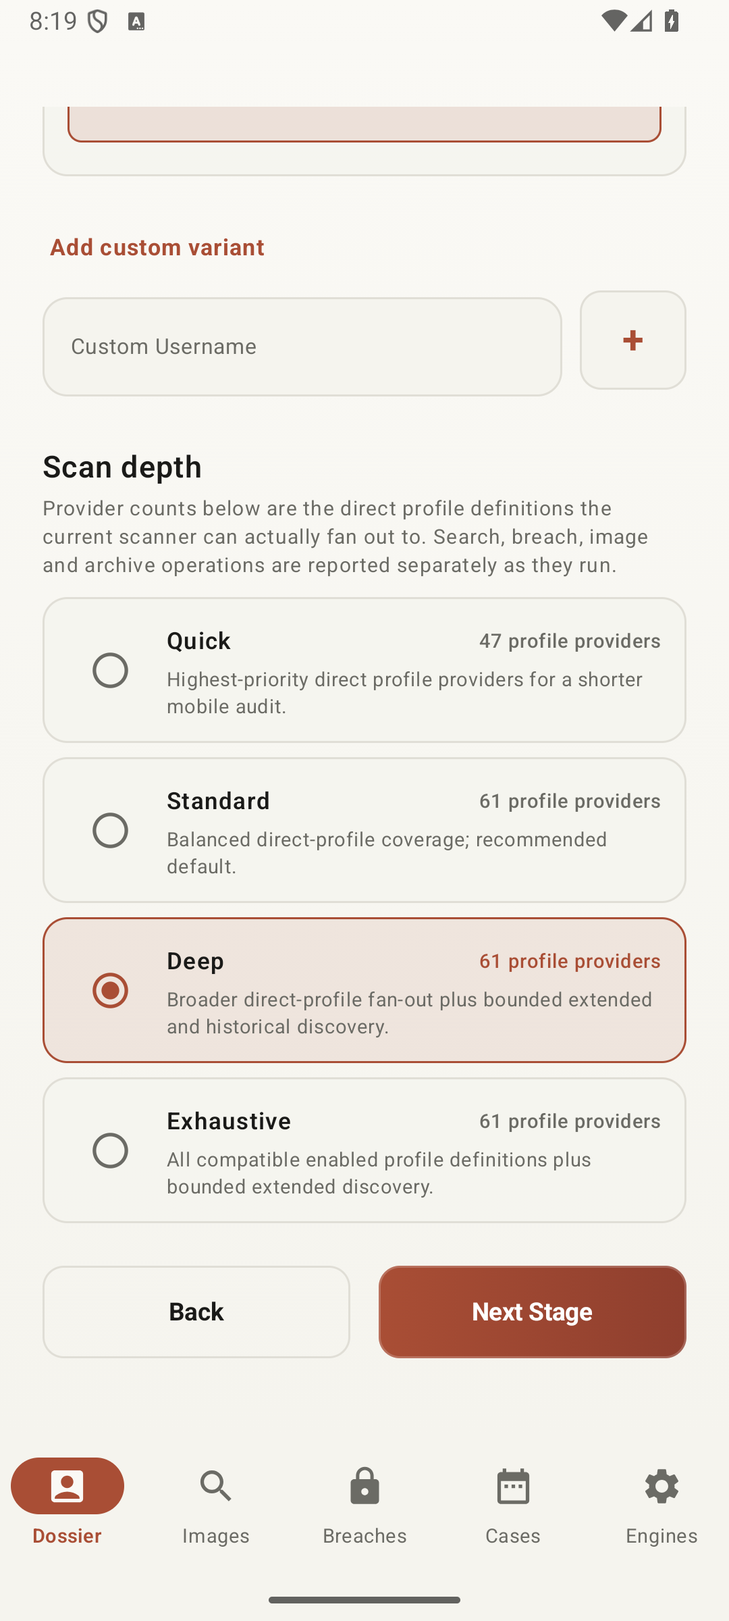
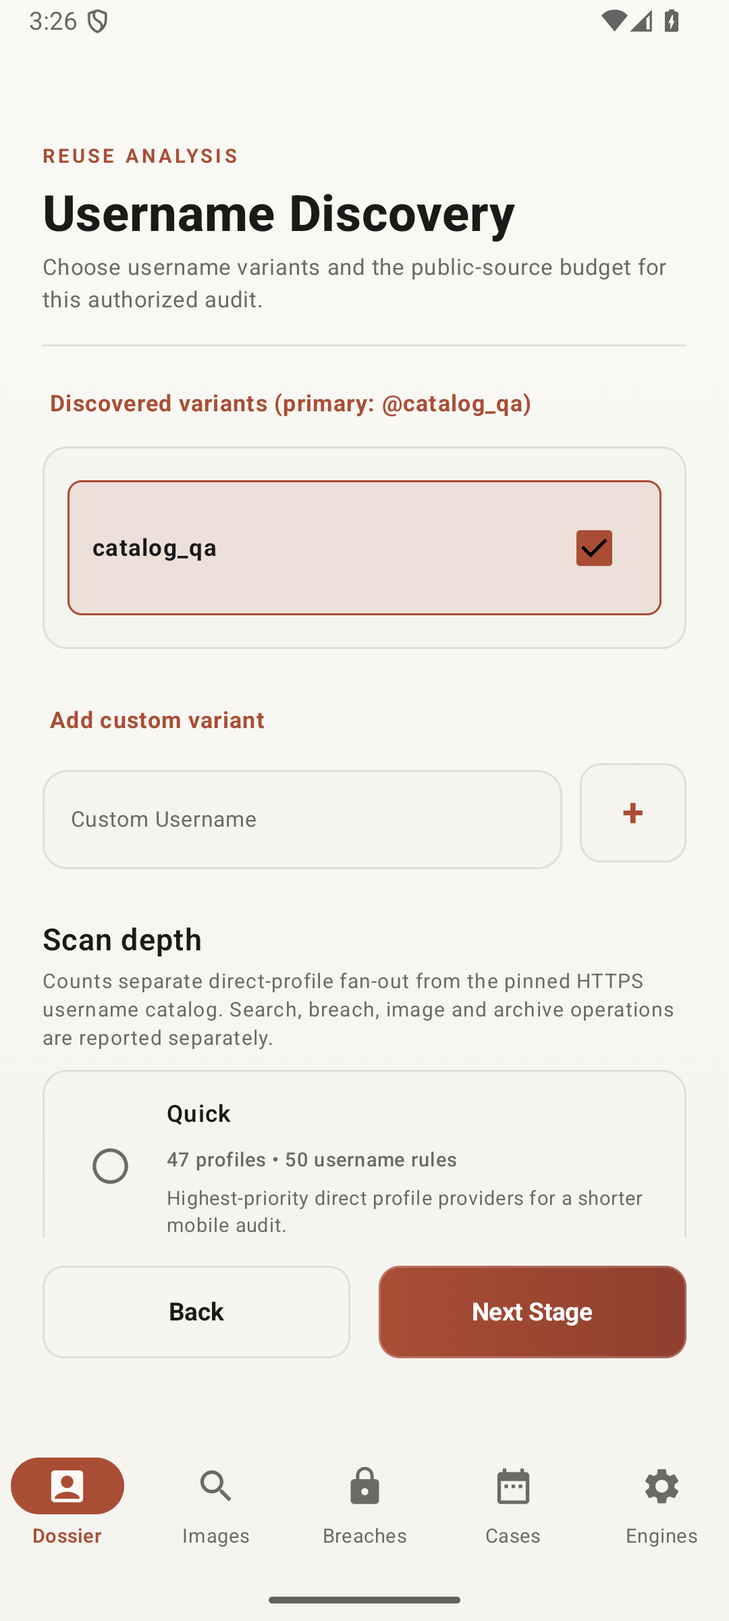
docs: record pinned username catalog evidence

diff --git a/TRUTH.md b/TRUTH.md
@@ -4,28 +4,29 @@ This is the sole live implementation/readiness record for Dossier. `AGENTS.md` d
 
 ## Current snapshot
 
-- **Strict product readiness score:** **64/100**
+- **Strict product readiness score:** **65/100**
 - **Milestone state:** M0 complete; M1–M6 and M8–M12 materially advanced but still partial; M7 and M13 remain partial
 - **Current implementation branch:** `feat/product-contract-discovery-v2`
-- **Last validated implementation commit:** `22a3ff7a1162683fd7b0ccd212eda99ac5eb1a08`
+- **Last validated implementation commit:** `107fd3119e1efcc3ed698e2c93925ee4c183c704`
 - **Last validation date:** **2026-08-24**
-- **Current-session validation on that commit:** provider-registry audit, debug and uiTest JVM tests, debug and uiTest APK assembly, lint, API 36 Compose/UI tests, Android Keystore resume tests, exact-UUID WorkManager lifecycle/crash-boundary tests, provider-runtime lifecycle tests and affected-state visual QA at normal and 1.3x font scale
+- **Current-session validation on that commit:** provider-registry and pinned-catalog integrity audits, debug and uiTest JVM suites (462 tests / 88 suites each), debug and uiTest APK assembly, zero-error lint, 21/21 API 36 Compose/UI tests, Android Keystore resume tests, exact-UUID WorkManager lifecycle/crash-boundary tests, provider-runtime lifecycle tests and affected-state visual QA at 1.0x, 1.3x, 1.5x and 2.0x font scale
 - **Documentation-only commits after the validated implementation:** may update this file/PR prose without changing the validated code claim
 - **Last validated device class:** Medium_Phone profile, Android API 36, x86_64 emulator
 - **Real-device production validation:** not yet recorded
 - **Declarative provider definitions:** **78 authored**
+- **Pinned WhatsMyName catalog:** **716 source records; 644 executable HTTPS username rules after parser/policy filtering; 72 non-executable under current policy**
 - **Registry-wide live provider validation:** not established
 - **Production readiness:** not established
 
 Compilation, unit tests and emulator tests are necessary gates, but they do not substitute for live-provider validation, calibrated identity/face benchmarks, physical-device measurements, accessibility validation or release hardening.
 
-The readiness score is **64/100** after the declarative provider-execution tranche. Direct-profile candidates now execute through provider definitions with bounded request policy, typed truthful outcomes, provider identity in evidence and real lifecycle counters. Discovery gains one point because this closes a production execution gap; scale, registry-wide live validation, remaining custom-resolver migration, persisted frontier/health, calibration and physical-device gates remain open.
+The readiness score is **65/100** after the pinned username-catalog tranche. Direct-profile candidates continue to execute through 78 authored definitions, while a separately pinned 716-record WhatsMyName catalog contributes 644 executable HTTPS username rules with bounded scheduling, typed truthful outcomes, provider identity in evidence and real lifecycle counters. Discovery gains one point for useful production breadth and policy enforcement; the catalog is not counted as 644 additional `ProviderCatalogV2` definitions or live-validated providers. Registry-wide live validation, remaining custom-resolver migration, persisted frontier/health, calibration and physical-device gates remain open.
 
 ## Strict 100-point rubric
 
 | Area | Score | Truth |
 |---|---:|---|
-| Discovery breadth and reliability | **10/15** | Discovery Fabric v2 is integrated into runtime planning and direct-profile execution with 78 declarative definitions, categories, validation, bounded reads, timeout/retry/cooldown/request-spacing policy, typed truthful outcomes, provider health updates, scan modes and maintenance-audit CI. A broad OSINT capability catalog and bounded report-interoperability layer cover additional tool families, but most external frameworks are import/manual integrations rather than native live providers. The project remains far below the 1,000+ reviewed/live-validated target and lacks registry-wide live contracts. |
+| Discovery breadth and reliability | **11/15** | Discovery Fabric v2 is integrated into runtime planning and direct-profile execution with 78 declarative definitions, categories, validation, bounded reads, timeout/retry/cooldown/request-spacing policy, typed truthful outcomes, provider health updates, scan modes and maintenance-audit CI. A separately pinned WhatsMyName asset contains 716 source records and 644 executable HTTPS username rules after parser/policy filtering, with mode budgets, bounded execution and fail-closed states. These rules are not additional `ProviderCatalogV2` definitions or live-validated providers. The project remains below the 1,000+ useful reviewed-provider target and lacks registry-wide live contracts. |
 | Recursive orchestration | **5/10** | The coordinator/event bridge starts and observes the mature pipeline; direct-profile work emits real queued/started/completed/unavailable events under a stable scan ID; live UI consumes bounded event-derived counts; two-hop discovery has admission/visited/depth/budget rules; real terminal scan history is captured. Production background scheduling uses encrypted two-phase request publication, exact UUID/generation ownership, startup `getWorkInfoById` reconciliation, idempotent result-aware success and terminal cancellation observation. True in-flight pause/resume, sole coordinator ownership, a general persisted frontier/plan and external process-kill/reboot proof remain incomplete. |
 | Evidence/provenance | **6/10** | Universal evidence supports provider, retrieval/observation timestamps, verification state, reliability, SHA-256, parser version and historical state. Imported third-party OSINT reports are explicitly Candidate/ThirdPartyAggregation and never become Verified merely because an external tool reported a hit. Older producers still do not populate every field universally. |
 | Entity resolution | **5/10** | An explainable multi-signal resolver is integrated into the production graph, preserves contributions and contradictions, and prevents same-username-only confirmation. Direct profile verification now keeps handle-only/name-only matches below the attribution threshold unless independently corroborated or explicitly supplied. Weights remain engineering parameters rather than benchmark-calibrated probabilities. |
@@ -35,10 +36,10 @@ The readiness score is **64/100** after the declarative provider-execution tranc
 | Historical evidence | **3/6** | Exact-URL Wayback recovery, bounded CDX history discovery, selected-snapshot re-fetching and best-effort archive.today fallback exist. Historical captures remain explicitly historical and cannot masquerade as proof of current account existence. Universal historical extraction/change tracking and production timeline UI remain incomplete. |
 | Breach intelligence | **4/5** | HIBP authoritative coverage remains separate from general public exposure; privacy-preserving range flows are used where supported; breach/provider/retrieval/date metadata is preserved. LeakCheck/DeHashed/Breach-Parse/Buster/BreachFinder interoperability is summary-only and rejects credential/secret-bearing records. Coverage remains externally dependent. |
 | AI analyst | **4/5** | Generated factual claims must be structured, cite existing evidence IDs and survive deterministic validation; uncited/unknown identifiers are withheld and invalid output falls back locally. The validator also rejects explicit email/URL identifiers not present in the evidence actually cited. Corrected-graph/remediation-native inputs and a production evaluation corpus remain incomplete. |
-| UX/UI | **6/8** | Overview/Evidence/Connections/Actions remain coherent; live scan state is event-derived; saved Cases support persistent corrections, remediation tracking, scan-history display and share-safe export. API 36 visual QA fixed consent-footer overlap, machine-token status copy, graph-label clipping, remediation-status overlap, stale scan logs and the background/cancel action collision; provider counters remain readable at 1.3x font scale. Timeline UX, graph-export UI, case-integrated image clusters and broad accessibility/adaptive-layout/physical-device validation remain incomplete. |
+| UX/UI | **6/8** | Overview/Evidence/Connections/Actions remain coherent; live scan state is event-derived; saved Cases support persistent corrections, remediation tracking, scan-history display and share-safe export. API 36 visual QA fixed consent-footer overlap, machine-token status copy, graph-label clipping, remediation-status overlap, stale scan logs, the background/cancel action collision, ambiguous provider budgets and large-type navigation/count wrapping. The changed scan-budget and navigation states were inspected at 1.0x, 1.3x, 1.5x and 2.0x font scale. Timeline UX, graph-export UI, case-integrated image clusters and broad TalkBack/adaptive-layout/physical-device validation remain incomplete. |
 | Security/privacy | **3/4** | Keystore AES-256-GCM cases, encrypted request-scoped scan checkpoints, generation-bound exact-owner lifecycle state, opaque new WorkManager inputs, allowlisted WorkManager progress/error values, atomic encrypted result replacement, restricted evidence WebView, local visual processing defaults, opt-in remote AI, explicit deletion and pre-write share-safe export are implemented. External report imports are bounded, local/in-memory, tied to explicit audit seeds and strip/reject password/hash/cookie/token/session/credential material. Historical plaintext WorkManager rows are not forensically erased, and latest-result reads still need bounded/off-main hardening. |
-| Testing/device validation | **3/5** | Provider audit (78 definitions), both debug and uiTest JVM suites (448 tests across 85 suites each, 0 failures/errors/skips), debug/uiTest APK assembly, lint and a clean-state API 36 Compose/instrumentation run (21/21), including Android Keystore resume tests (2/2), exact-UUID WorkManager lifecycle/crash-boundary tests (5/5) and uiTest-only encrypted-data/provider-progress fixtures (2/2), pass on the exact implementation commit above. Fifteen canonical API 36 screenshots and the affected scan state at normal/1.3x font scale were inspected, but physical Samsung/Pixel/lower-memory, battery, external process-death/reboot and complete accessibility gates remain incomplete. |
-| **Total** | **64/100** | Declarative provider execution is now production-wired and validated. This does not substitute for registry-wide live validation, empirical calibration, provider scale or release hardening. |
+| Testing/device validation | **3/5** | Provider audit (78 definitions), pinned WhatsMyName integrity audit (716 records / 644 executable rules), both debug and uiTest JVM suites (462 tests across 88 suites each, 0 failures/errors/skips), debug/uiTest APK assembly, zero-error lint and a clean-state API 36 Compose/instrumentation run (21/21), including Android Keystore resume tests (2/2), exact-UUID WorkManager lifecycle/crash-boundary tests (5/5) and uiTest-only encrypted-data/provider-progress fixtures (2/2), pass on the exact implementation commit above. Fifteen canonical API 36 screenshots and changed states at 1.0x/1.3x/1.5x/2.0x font scale were inspected, but physical Samsung/Pixel/lower-memory, battery, external process-death/reboot and complete accessibility gates remain incomplete. |
+| **Total** | **65/100** | Pinned username breadth and policy enforcement are production-wired and validated offline. This does not substitute for registry-wide live validation, empirical calibration, the 1,000+ useful-provider target or release hardening. |
 
 ## M0 — Baseline audit
 
@@ -59,6 +60,10 @@ Implemented:
 - scan-mode persistence in resume markers;
 - process-local provider health statistics;
 - **78 authored provider/service definitions**;
+- a separately pinned WhatsMyName catalog from upstream commit `e62338e4fc88536a330733d355a9d33a3a1697c6`, with bundled CC BY-SA 4.0 license/notice and exact data/license SHA-256 checks;
+- strict parsing and policy filtering of 716 source records into 644 executable HTTPS username rules and 72 explicitly non-executable records;
+- Quick / Standard / Deep / Exhaustive username-rule budgets of 50 / 200 / 500 / 644 per normalized explicit handle, at most three handles, bounded concurrency and response sizes;
+- fail-closed catalog-unavailable and provider outcomes, Observed evidence only, and explicit UI separation of direct-profile counts from username-rule budgets;
 - direct-profile execution through definitions with bounded response reads, policy timeouts, retries, cooldowns, minimum request spacing and redirect enforcement;
 - typed `RateLimited`, `Timeout` and `NetworkUnavailable` outcomes alongside present/not-found/auth/challenge/redirect/parser states;
 - provider IDs propagated from templates through candidates/results into evidence;
@@ -70,7 +75,7 @@ Implemented:
 - a public-source capability catalog separating Native, NativeEquivalent, ImportOnly, API-key-dependent, ManualOnly, Retired and Unsupported integration postures;
 - explicit truthful states for retired Google/Bing cached-page products rather than simulated support.
 
-Not complete: 1,000+ useful reviewed sources, registry-wide live present/missing/soft-404/redirect/challenge validation, persisted provider-health history, and migration of every mature custom resolver to the declarative runtime.
+Not complete: 1,000+ useful reviewed providers, registry-wide live present/missing/soft-404/redirect/challenge validation (including representative WhatsMyName rules), persisted provider-health history, and migration of every mature custom resolver to the declarative runtime.
 
 ## OSINT interoperability tranche
 
@@ -276,7 +281,7 @@ Implemented/preserved:
 - remediation action/value/status rows that remain separate when action copy wraps;
 - a deterministic uiTest-only `.test` fixture that exercises the production encrypted case/transient-result stores and is absent from the debug manifest.
 
-Visual QA on the API 36 Medium Phone emulator produced and inspected 15 canonical screenshots covering consent, identity validation, username review, scan configuration/progress, analysis, all report tabs, saved cases, corrections and remediation. The accepted captures fixed consent copy under the sticky CTA, the raw `SuspiciousSimilarity` token, the clipped `jane@example.tes` graph label, remediation-status collision, stale scan-complete log and the Continue-in-background/Cancel overlap. `07-scan-progress.png` now shows unobstructed logs, separate action bounds and real scheduled/completed/unavailable counter semantics; the affected screen also remained readable at 1.3x font scale. The provider-progress values are a deterministic uiTest-only lifecycle fixture and are not claimed as a live-network scan. Screenshots contain synthetic/non-personal test data only. This remains one viewport and one affected font-scale check; it does not establish TalkBack, full font/display scaling, reduced motion, landscape/tablet or physical-device acceptance.
+Visual QA on the API 36 Medium Phone emulator produced and inspected 15 canonical screenshots covering consent, identity validation, username review, scan configuration/progress, analysis, all report tabs, saved cases, corrections and remediation. The accepted captures fixed consent copy under the sticky CTA, the raw `SuspiciousSimilarity` token, the clipped `jane@example.tes` graph label, remediation-status collision, stale scan-complete log, the Continue-in-background/Cancel overlap and ambiguous scan-budget presentation. `06-scan-configuration.png` now separates direct-profile counts from pinned HTTPS username-rule budgets; `07-scan-progress.png` shows unobstructed logs, separate action bounds and real scheduled/completed/unavailable counter semantics. The changed scan-budget cards and bottom navigation were inspected at 1.0x, 1.3x, 1.5x and 2.0x font scale; count competition and navigation-label ellipsis found during QA were fixed before acceptance. The provider-progress values are a deterministic uiTest-only lifecycle fixture and are not claimed as a live-network scan. Screenshots contain synthetic/non-personal test data only. This remains one viewport and affected-state scaling, not TalkBack, reduced-motion, landscape/tablet, whole-product accessibility or physical-device acceptance.
 
 Not complete: production timeline, graph-export UI, case-integrated/cross-account image cluster review, corrections directly on every live Evidence card, mature tablet/landscape adaptation, localization/RTL and complete accessibility validation.
 
@@ -323,7 +328,7 @@ External OSINT imports are local/in-memory and bounded. Import parsers require e
 Validated implementation commit:
 
 ```text
-22a3ff7a1162683fd7b0ccd212eda99ac5eb1a08
+107fd3119e1efcc3ed698e2c93925ee4c183c704
 ```
 
 Validation date:
@@ -336,26 +341,27 @@ Current-session validation on that exact commit:
 
 ```text
 Provider registry audit       PASS — 78 definitions (70 profile templates + 8 services)
-Debug JVM test suite          PASS — 448 tests / 85 suites / 0 failures / 0 errors / 0 skips
-uiTest JVM test suite         PASS — 448 tests / 85 suites / 0 failures / 0 errors / 0 skips
-Debug APK assembly            PASS — 115,014,478 bytes
-Debug APK SHA-256             17A627D1FF3AC916E0B6DA2FAA44382FEF69A9AFDC442F0C3D4F33449C67C993
+WhatsMyName integrity         PASS — 716 records / 644 executable HTTPS rules; pinned data/license hashes match
+Debug JVM test suite          PASS — 462 tests / 88 suites / 0 failures / 0 errors / 0 skips
+uiTest JVM test suite         PASS — 462 tests / 88 suites / 0 failures / 0 errors / 0 skips
+Debug APK assembly            PASS — 115,073,512 bytes
+Debug APK SHA-256             F6A4E446F0FBCF22C5873E8BEC50923F7CBB25C2C24444495CE60E5174D318F5
 Debug lint                    PASS — 0 errors / 65 warnings / 6 hints
-uiTest APK assembly           PASS — 242,449,051 bytes
-uiTest APK SHA-256            AE079F82D6486F36887F913AFA6CE33126C6B9C2753D772CD0764D940ED9B3A8
+uiTest APK assembly           PASS — 242,473,401 bytes
+uiTest APK SHA-256            A0DC65356BB0F84FF7B35D34701B5B8CEBCD9AB6BFEC850DD02792BBD5BAFC51
 uiTest lint                   PASS — 0 errors / 68 warnings / 6 hints
 API 36 Medium_Phone suite     PASS — 21/21 on x86_64 emulator after exact package-data reset
 Android Keystore resume       PASS — 2/2 within the full emulator suite
 WorkManager lifecycle         PASS — 5/5 within the full emulator suite
 Visual QA fixture receiver    PASS — 2/2 (encrypted case/result + provider lifecycle counters)
-Manual visual QA              RECORDED — 15 canonical API 36 screenshots plus affected scan state at 1.3x font scale; synthetic data only
+Manual visual QA              RECORDED — 15 canonical API 36 screenshots plus changed scan-budget/navigation states at 1.0x/1.3x/1.5x/2.0x font scale; synthetic data only
 ```
 
 The unit suite includes regressions for external OSINT authorization boundaries, secret-bearing breach reports, Numverify phone scoping, graph interoperability, encrypted two-phase checkpoint persistence/deletion guards, generation-bound lifecycle transitions/startup retry, atomic result replacement, opaque WorkManager transport, fixed progress/error codes, graph-label placement, status copy and cancellation propagation. The API 36 WorkManager class exercises pending same-UUID reenqueuing, durable-success retry, exact terminal cancellation, stale-owner isolation and opaque WorkSpec input. The Compose harness validates one-time onboarding persistence across activity recreation, isolates onboarding state between tests and checks wrapped remediation/status bounds. The uiTest-only receiver writes deterministic `.test` data through the production encrypted stores and is absent from the debug manifest. WorkManager coverage remains scoped to newly created current rows and deterministic crash states; it is not historical/WAL forensic erasure, external process-death/reboot, accessibility or physical-device evidence.
 
 ## Current production blockers
 
-1. Grow Discovery Fabric from 78 definitions toward the contract's 1,000+ useful reviewed providers with automated maintenance/import and live provider-contract validation.
+1. Grow Discovery Fabric beyond 78 authored definitions and the separate 716-record/644-executable-rule pinned username catalog toward the contract's 1,000+ useful reviewed providers, with automated maintenance/import and representative live provider-contract validation.
 2. Migrate remaining mature custom resolvers to the v2 runtime and persist provider health/reliability across process lifetimes.
 3. Implement true coordinator-owned pause/resume and a persisted general recursive frontier/plan, then run external process-kill/relaunch and reboot recovery validation against the production lifecycle.
 4. Move latest-result decrypt/deserialize/purge work fully off the main thread, bound result-envelope reads and run large-case ANR/storage-corruption tests.

diff --git a/README.md b/README.md
@@ -6,24 +6,25 @@ It collects public evidence, preserves provenance, separates verification from r
 
 ## Current status
 
-The current implementation branch is **64/100 under the strict production rubric**.
+The current implementation branch is **65/100 under the strict production rubric**.
 
 Validated implementation commit:
 
 ```text
-22a3ff7a1162683fd7b0ccd212eda99ac5eb1a08
+107fd3119e1efcc3ed698e2c93925ee4c183c704
 ```
 
 That exact implementation passed the current final-tree validation gates:
 
 ```text
 Provider registry audit             PASS — 78 definitions (70 profile templates + 8 services)
-Debug JVM unit tests                PASS — 448 tests / 85 suites / 0 failures, errors, or skips
-uiTest JVM unit tests               PASS — 448 tests / 85 suites / 0 failures, errors, or skips
-Debug APK assembly                  PASS — 115,014,478 bytes
-Debug APK SHA-256                   17A627D1FF3AC916E0B6DA2FAA44382FEF69A9AFDC442F0C3D4F33449C67C993
-uiTest APK assembly                 PASS — 242,449,051 bytes
-uiTest APK SHA-256                  AE079F82D6486F36887F913AFA6CE33126C6B9C2753D772CD0764D940ED9B3A8
+WhatsMyName catalog integrity       PASS — 716 records / 644 executable HTTPS rules
+Debug JVM unit tests                PASS — 462 tests / 88 suites / 0 failures, errors, or skips
+uiTest JVM unit tests               PASS — 462 tests / 88 suites / 0 failures, errors, or skips
+Debug APK assembly                  PASS — 115,073,512 bytes
+Debug APK SHA-256                   F6A4E446F0FBCF22C5873E8BEC50923F7CBB25C2C24444495CE60E5174D318F5
+uiTest APK assembly                 PASS — 242,473,401 bytes
+uiTest APK SHA-256                  A0DC65356BB0F84FF7B35D34701B5B8CEBCD9AB6BFEC850DD02792BBD5BAFC51
 Debug lint                          PASS — 0 errors / 65 warnings / 6 hints
 uiTest lint                         PASS — 0 errors / 68 warnings / 6 hints
 API 36 x86_64 instrumentation       PASS — 21/21 tests
@@ -37,11 +38,11 @@ See `TRUTH.md` for the authoritative score and blockers. `AGENTS.md` defines the
 
 ## Visual walkthrough
 
-These captures come from the API 36 Medium Phone emulator. Analysis, report, case and provider-progress states use deterministic **uiTest-only** fixtures; case data is written through the production encrypted stores and provider counters are emitted through the production coordinator callbacks. All identity values and URLs are synthetic and use reserved `.test` domains. The receiver exists only in the uiTest source set and is absent from the debug manifest. Static screenshots do not establish TalkBack, full large-font, reduced-motion, adaptive-layout or physical-device acceptance.
+These captures come from the API 36 Medium Phone emulator. Analysis, report, case and provider-progress states use deterministic **uiTest-only** fixtures; case data is written through the production encrypted stores and provider counters are emitted through the production coordinator callbacks. All identity values and URLs are synthetic and use reserved `.test` domains. The receiver exists only in the uiTest source set and is absent from the debug manifest. The updated scan-budget screen and bottom navigation were also inspected at 1.0x, 1.3x, 1.5x and 2.0x font scale. Static screenshots do not establish TalkBack, whole-product large-font, reduced-motion, adaptive-layout or physical-device acceptance.
 
 | Consent and input validation | Scan configuration |
 |---|---|
-| <img src="docs/screenshots/01-onboarding.png" width="320" alt="Dossier one-time usage notice with all consent copy clear of the Continue button"> | <img src="docs/screenshots/06-scan-configuration.png" width="320" alt="Scan depth configuration showing real direct-profile provider counts"> |
+| <img src="docs/screenshots/01-onboarding.png" width="320" alt="Dossier one-time usage notice with all consent copy clear of the Continue button"> | <img src="docs/screenshots/06-scan-configuration.png" width="320" alt="Scan depth configuration separating direct-profile counts from pinned HTTPS username-rule budgets"> |
 | <img src="docs/screenshots/03-identity-invalid-email.png" width="320" alt="Identity form showing an invalid email message and disabled Continue button"> | <img src="docs/screenshots/07-scan-progress.png" width="320" alt="Live scan showing scheduled, completed and unavailable provider counters with separate background and cancel actions"> |
 
 | Background analysis | Evidence-oriented report |
@@ -55,8 +56,10 @@ These captures come from the API 36 Medium Phone emulator. Analysis, report, cas
 ## Discovery Fabric
 
 - Typed declarative provider registry with **78 authored provider/service definitions**.
+- Separately pinned WhatsMyName username-surface catalog with **716 source records and 644 executable HTTPS rules** after parser and policy filtering. These are not 644 additional registry definitions or live-validated providers.
+- Catalog bytes and the bundled CC BY-SA 4.0 license are pinned to upstream commit `e62338e4fc88536a330733d355a9d33a3a1697c6` and checked by exact SHA-256 before release evidence is recorded.
 - Developer, social, forum, gaming, creative, publishing, professional, media, commerce, education, code/package, personal-site, archive, breach and search categories.
-- Quick, Standard, Deep and Exhaustive scan modes backed by real provider plans rather than fake totals.
+- Quick, Standard, Deep and Exhaustive scan modes backed by real provider plans rather than fake totals. Username-rule budgets are 50 / 200 / 500 / 644 per normalized handle, with at most three explicit handles; direct-profile counts remain separate.
 - Provider query capabilities, source-reliability classes, existence/extraction rules and request policies.
 - Direct-profile candidates execute through the declarative provider runtime with bounded reads, timeout/retry/cooldown policy, provider request spacing, redirect checks and a generic non-impersonating user agent.
 - Real queued, started, completed and unavailable callbacks drive scheduled/completed/unavailable counters; planned registry breadth is not presented as completed work.
@@ -66,7 +69,7 @@ These captures come from the API 36 Medium Phone emulator. Analysis, report, cas
 - Bounded two-hop pivots with admission rules: weak name/location/occupation/face-only signals do not recursively expand by themselves.
 - Exact-URL Internet Archive recovery for some deleted/replaced pages.
 
-The long-term contract calls for 1,000+ useful reviewed definitions. The current 78 definitions are not presented as registry-wide live validated.
+The long-term contract calls for 1,000+ useful reviewed providers. `ProviderCatalogV2` currently contains 78 authored definitions (70 profile templates and 8 services); the separate pinned WhatsMyName catalog contains 716 records, of which 644 are executable HTTPS username rules. Neither count is presented as registry-wide live validation.
 
 ## Scan orchestration and history
 
@@ -205,6 +208,7 @@ Core checks:
 
 ```sh
 python3 tools/provider_registry_audit.py
+pwsh -File tools/verify_whatsmyname_catalog.ps1
 ./gradlew :app:testDebugUnitTest
 ./gradlew :app:assembleDebug
 ./gradlew :app:connectedUiTestAndroidTest
@@ -222,10 +226,10 @@ Do not commit `local.properties`, keystores, credentials, API keys, personal tes
 
 ## Known limitations
 
-- 78 declarative definitions is not the 1,000+ reviewed/live-validated provider target.
+- `ProviderCatalogV2` has 78 authored definitions, while the separate pinned WhatsMyName catalog has 716 records and 644 executable HTTPS username rules; this remains below the 1,000+ useful reviewed-provider target and does not establish live health.
 - Private, authenticated, blocked, never-indexed and never-archived content cannot be discovered reliably.
 - Providers can change markup, challenge requests, rate-limit or omit content.
-- Provider-level live events, true pause/resume and persisted recursive-frontier recovery are incomplete.
+- Some custom resolver operations still bypass unified provider lifecycle events; true pause/resume and persisted recursive-frontier recovery are incomplete.
 - Pre-upgrade WorkManager rows may retain legacy raw scan input until WorkManager pruning; new rows are opaque, but no forensic SQLite/WAL erasure claim is made.
 - Generation-bound startup reconciliation and cancellation are implemented, but external process-kill/relaunch and reboot validation is not yet recorded.
 - Latest-result decrypt/deserialize and purge paths still include synchronous call sites, and result-envelope reads are not yet size-bounded; large-case ANR/storage-corruption hardening remains open.
@@ -235,8 +239,7 @@ Do not commit `local.properties`, keystores, credentials, API keys, personal tes
 - Historical extraction and timeline UX are incomplete.
 - HIBP email coverage depends on user-supplied supported access and provider availability.
 - Share-safe redaction reduces disclosure but cannot guarantee anonymity.
-- The queued-scan Continue-in-background and Cancel controls need more vertical separation on the captured Medium Phone viewport; the functional fix is deferred.
-- Visual QA currently covers one API 36 emulator viewport with synthetic data; it does not establish accessibility, large-font, landscape/tablet or physical-device acceptance.
+- Visual QA currently covers one API 36 emulator viewport with synthetic data. The changed scan-budget and bottom-navigation states were checked at 1.0x, 1.3x, 1.5x and 2.0x font scale, but this does not establish whole-product accessibility, landscape/tablet or physical-device acceptance.
 - Emulator CI cannot replace Samsung/Pixel/lower-memory, accessibility, font-scale, process-death, thermal, battery and large-case validation.
 
 ## Documentation policy
